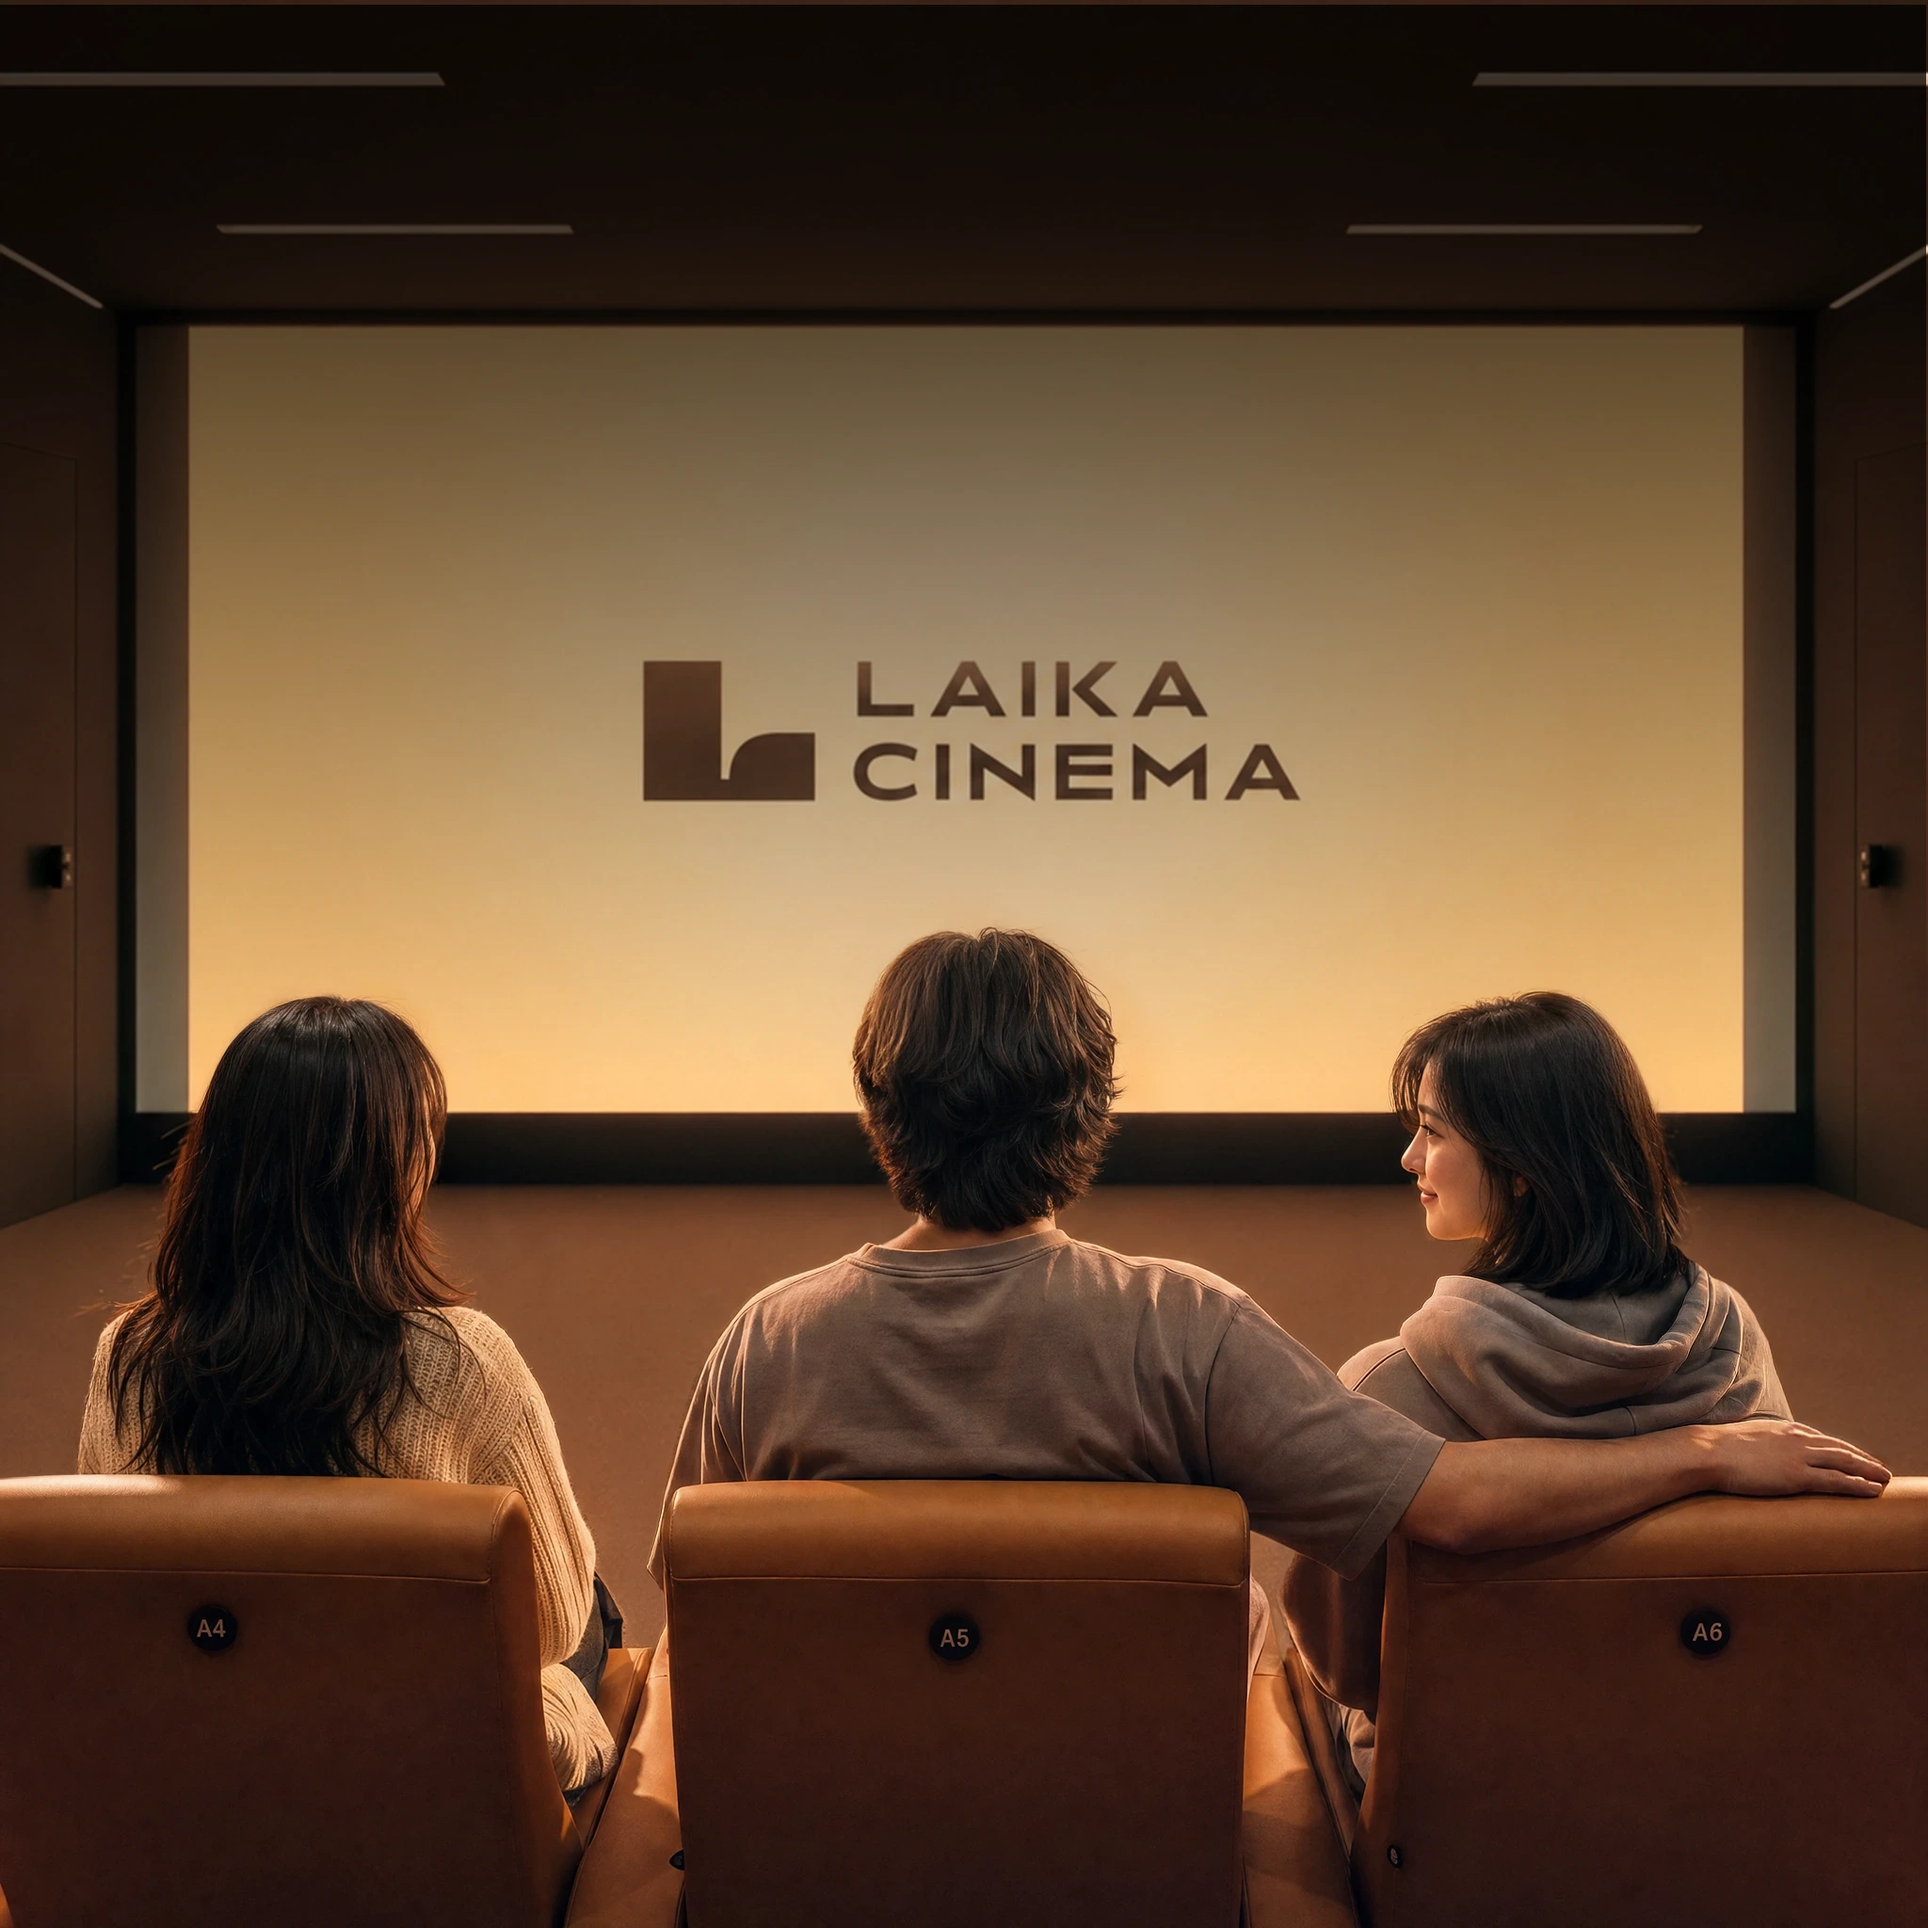
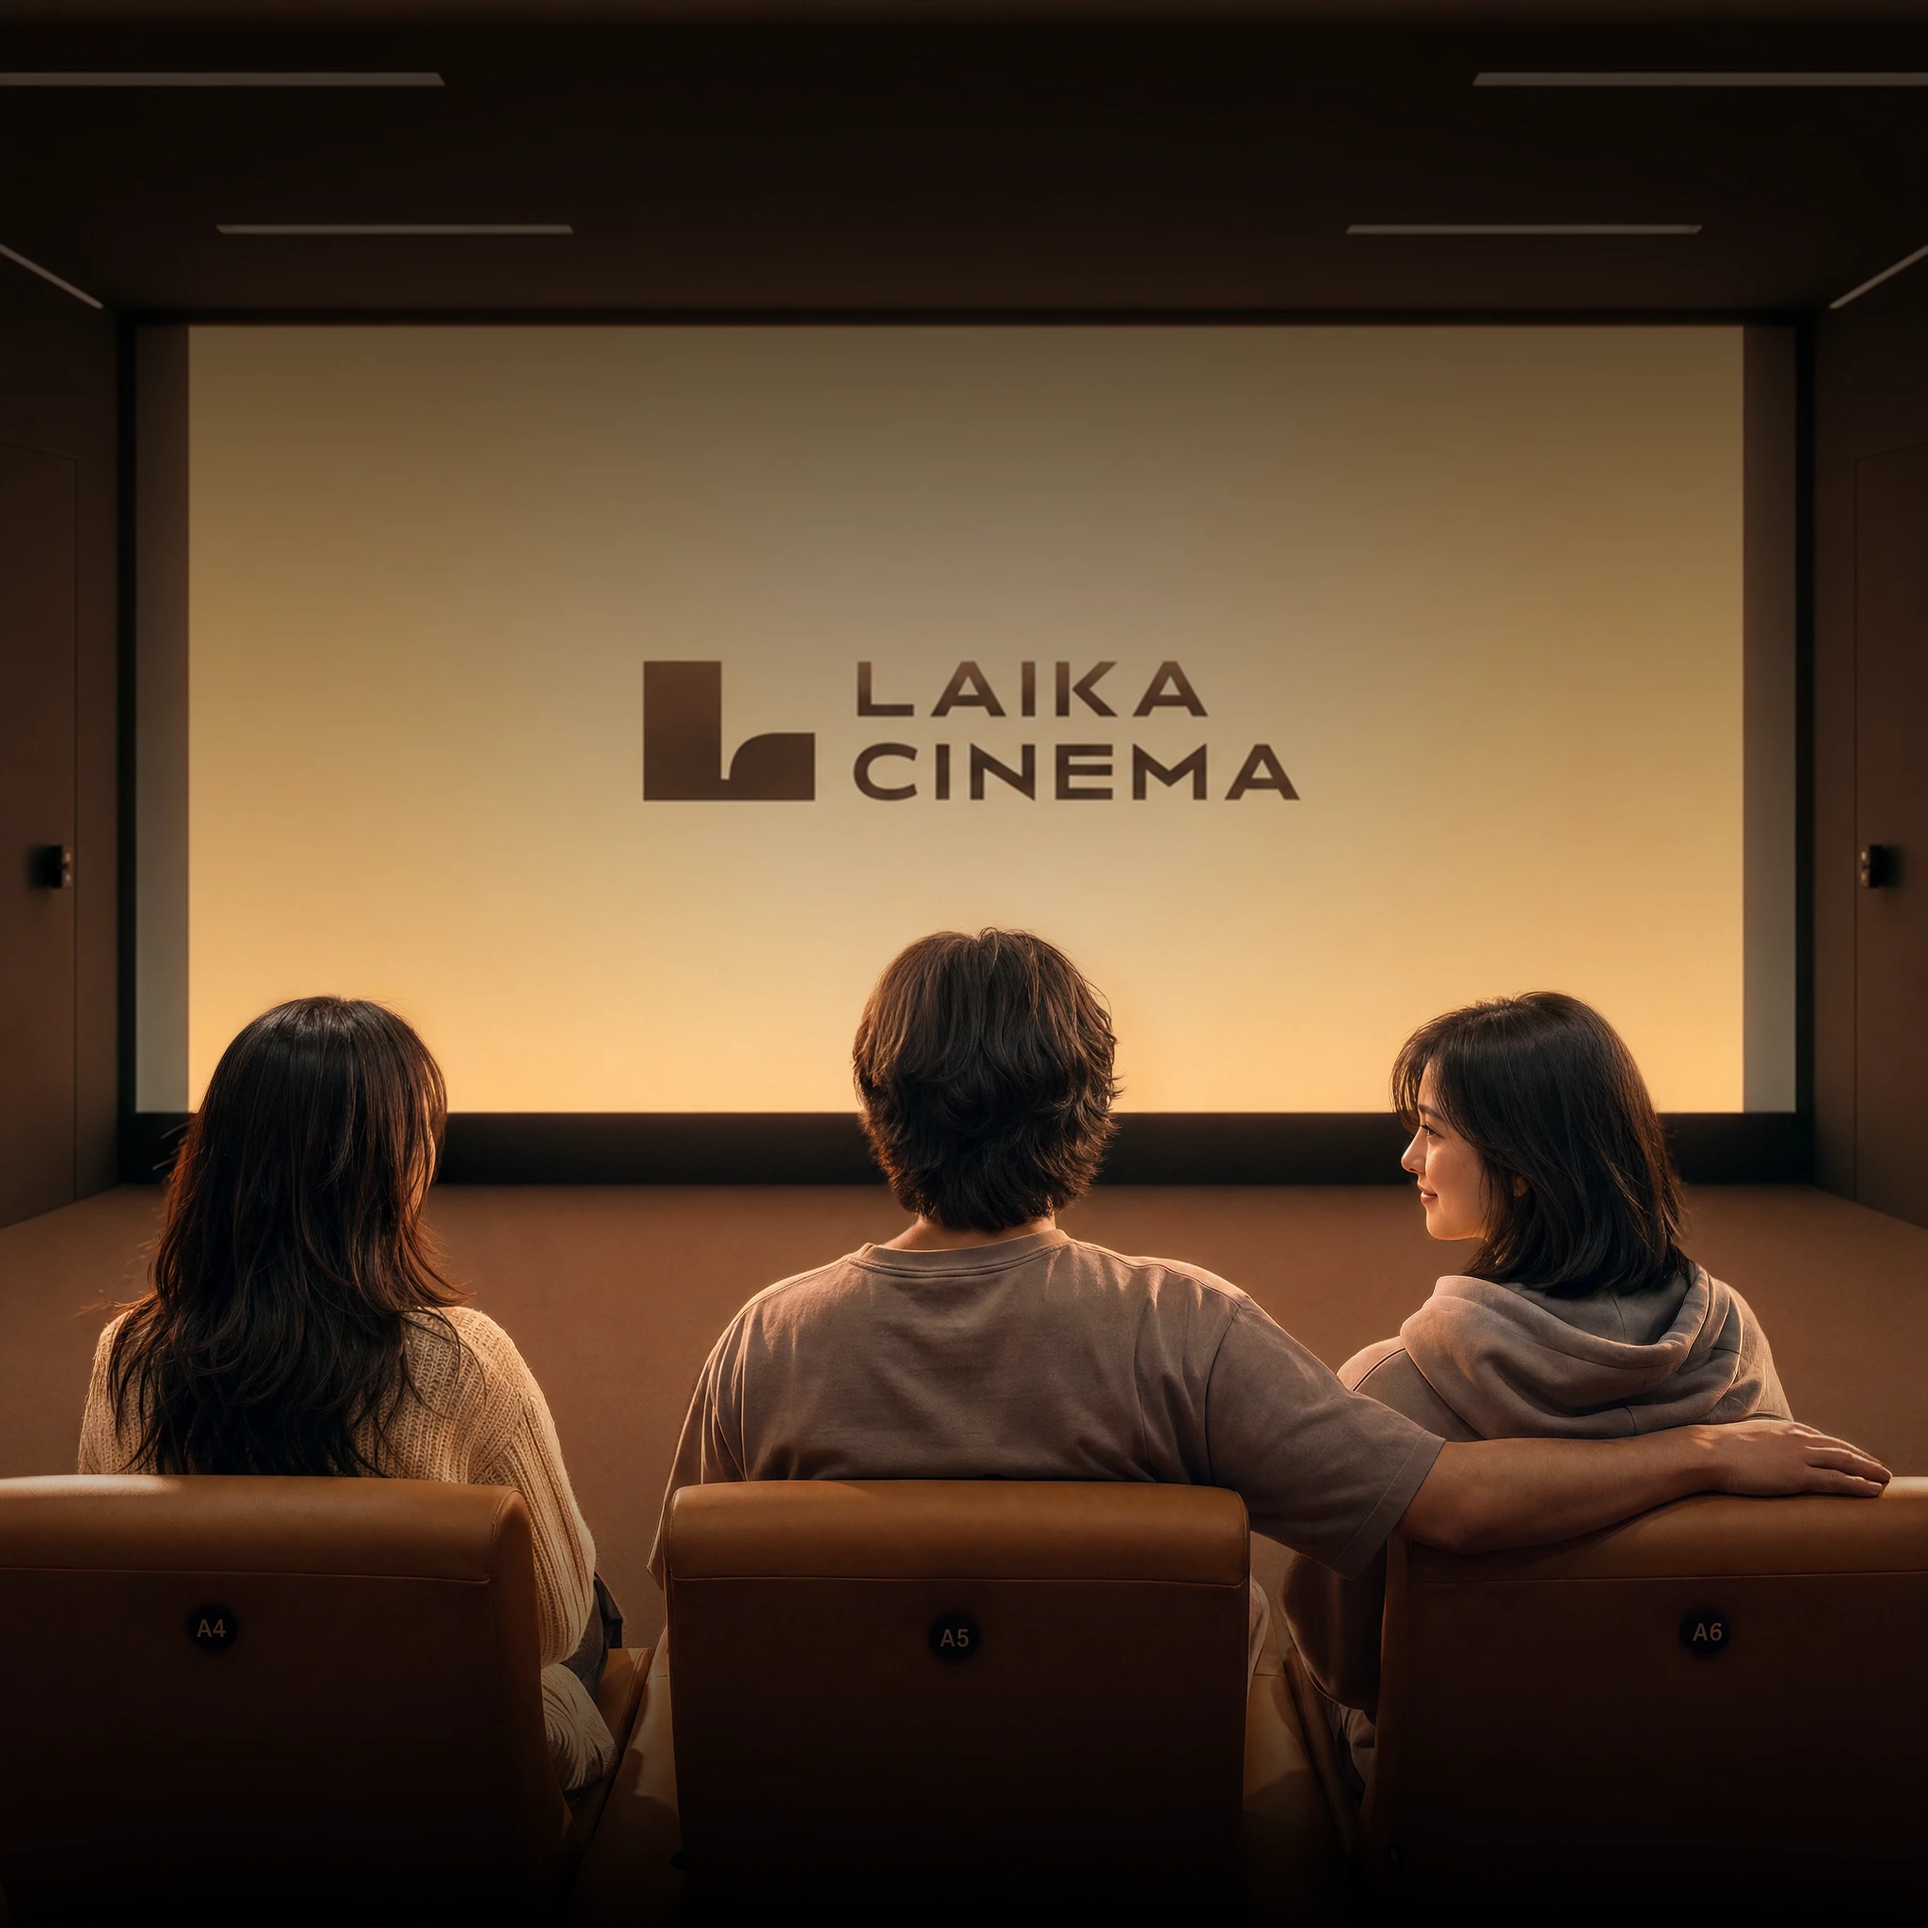
상페 이미지 1:1 실측 정합 — 피그마 합성 익스포트 기준 재작업
- 그라데이션: 프레임 익스포트에서 행별 알파 실측(중앙값) 후 원본에 굽기
- 몬스터: 피그마에 실린 원본(1086×1449)이 로컬본과 다른 생성본임을 확인, 피그마 원본으로 교체
- max-width:100% 가 블리드(895/903px)를 누르던 것 해제
- 검증: 브라우저 vs 피그마 익스포트 픽셀 대조 (사람구간 잔차 4~6, 콘텐츠 일치)

Changed region(s): [[0.0, 0.7188, 1.0, 1.0]]

diff --git a/basic.html b/basic.html
@@ -116,7 +116,7 @@ src="https://www.facebook.com/tr?id=771478541518631&ev=PageView&noscript=1"></no
 <link rel="stylesheet" href="css/style.css?v=bcdee7d5">
 <link rel="stylesheet" href="css/mobile.css?v=15ca757b">
 <link rel="stylesheet" href="css/sub.css?v=313eb78b">
-<link rel="stylesheet" href="css/basic.css?v=03bb2229">
+<link rel="stylesheet" href="css/basic.css?v=eb410ce0">
 <script type="application/ld+json">
 {
   "@context": "https://schema.org",
@@ -199,12 +199,12 @@ src="https://www.facebook.com/tr?id=771478541518631&ev=PageView&noscript=1"></no
 
 <!-- ══ 상페1 (3684:17907) — tools/basic_s1.py 가 만든다. 손대지 말 것 ══ -->
 <section class="bs-s1 bs-board" aria-labelledby="bs-title">
-  <img class="s1-hero" src="assets/img/basic/hero-cinema.webp?v=375fb5cb" width="1722" height="1722" fetchpriority="high" alt="라이카 시네마 극장에서 수강생들이 자기 영상 상영을 보고 있다">
+  <img class="s1-hero" src="assets/img/basic/hero-cinema.webp?v=ff7ed41c" width="1722" height="1722" fetchpriority="high" alt="라이카 시네마 극장에서 수강생들이 자기 영상 상영을 보고 있다">
   <p class="s1-copy tb bs-rv">취미로 시작했는데<br>한 달 뒤 <b>극장</b>에서<br>내 영상이 상영됩니다.</p>
   <img class="s1-lock bs-rv" src="assets/img/basic/ico/lock-hero.svg?v=0a68631d" width="515" height="102" alt="FVA ACADEMY × 21STUDIOS">
   <h1 class="s1-basic bs-rv" id="bs-title"><span class="sr-only">BASIC CLASS</span><svg class="bs-tl bs-b-basicclass" aria-hidden="true" focusable="false" xmlns="http://www.w3.org/2000/svg" viewBox="0 0 4009.0 853.0"><g transform="scale(1.00000 1) translate(-45.0 836.0) scale(1 -1)" fill="currentColor"><path d="M45 -1H195L187 83H196C205 25 249 -1 305 -1C377 -1 444 56 444 157V301C444 385 385 434 323 432V436C384 439 434 487 434 575V661C434 753 374 821 267 821H45ZM257 128C241 127 206 132 190 138V362H239C276 362 299 345 299 305V188C299 154 289 129 257 128ZM236 494H190V692H239C268 692 289 667 289 641V546C289 516 265 494 236 494Z" transform="translate(0.0 -0.0)"/><path d="M18 -1H167L188 205H283L304 -1H453L330 821H141ZM201 334 229 606H242L270 334Z" transform="translate(427.0 -0.0)"/><path d="M227 -17C349 -17 417 67 417 195C417 326 367 380 321 432L252 509C229 535 185 576 181 648C179 683 198 706 228 706C257 706 273 682 274 650C275 627 275 597 274 574H416C417 596 417 625 416 647C411 760 353 836 227 836C101 836 37 760 37 646C37 552 73 490 111 448L174 379C238 308 272 271 272 177C272 142 257 118 227 118C196 118 186 144 180 180C177 199 179 245 184 274H42C37 233 32 200 40 140C53 43 113 -17 227 -17Z" transform="translate(843.0 -0.0)"/><path d="M50 -1H198V821H50Z" transform="translate(1240.0 -0.0)"/><path d="M248 -17C374 -17 448 62 448 171V305H303V168C303 143 286 116 247 116C210 116 188 143 188 168V650C188 676 210 703 247 703C286 703 303 676 303 650V519H448V647C448 759 374 836 248 836C121 836 43 759 43 647V171C43 62 121 -17 248 -17Z" transform="translate(1433.0 -0.0)"/><path d="M248 -17C374 -17 448 62 448 171V305H303V168C303 143 286 116 247 116C210 116 188 143 188 168V650C188 676 210 703 247 703C286 703 303 676 303 650V519H448V647C448 759 374 836 248 836C121 836 43 759 43 647V171C43 62 121 -17 248 -17Z" transform="translate(2014.0 -0.0)"/><path d="M45 -1H414V128H192V821H45Z" transform="translate(2450.0 -0.0)"/><path d="M18 -1H167L188 205H283L304 -1H453L330 821H141ZM201 334 229 606H242L270 334Z" transform="translate(2824.0 -0.0)"/><path d="M227 -17C349 -17 417 67 417 195C417 326 367 380 321 432L252 509C229 535 185 576 181 648C179 683 198 706 228 706C257 706 273 682 274 650C275 627 275 597 274 574H416C417 596 417 625 416 647C411 760 353 836 227 836C101 836 37 760 37 646C37 552 73 490 111 448L174 379C238 308 272 271 272 177C272 142 257 118 227 118C196 118 186 144 180 180C177 199 179 245 184 274H42C37 233 32 200 40 140C53 43 113 -17 227 -17Z" transform="translate(3240.0 -0.0)"/><path d="M227 -17C349 -17 417 67 417 195C417 326 367 380 321 432L252 509C229 535 185 576 181 648C179 683 198 706 228 706C257 706 273 682 274 650C275 627 275 597 274 574H416C417 596 417 625 416 647C411 760 353 836 227 836C101 836 37 760 37 646C37 552 73 490 111 448L174 379C238 308 272 271 272 177C272 142 257 118 227 118C196 118 186 144 180 180C177 199 179 245 184 274H42C37 233 32 200 40 140C53 43 113 -17 227 -17Z" transform="translate(3637.0 -0.0)"/></g></svg></h1>
   <p class="s1-sub tb bs-rv">피바아카데미 × 21스튜디오 베이직 클래스</p>
-  <img class="s1-monster" src="assets/img/basic/theater-monster.webp?v=9683bd1b" width="1790" height="2222" loading="lazy" alt="3D 안경을 쓴 피바 캐릭터가 극장 좌석에서 팝콘을 들고 있다">
+  <img class="s1-monster" src="assets/img/basic/theater-monster.webp?v=55265b94" width="1086" height="1349" loading="lazy" alt="3D 안경을 쓴 피바 캐릭터가 극장 좌석에서 팝콘을 들고 있다">
   <p class="s1-oddlead bs-rv">와서 놀다 보니 내 영상 하나가 완성돼 있는</p>
   <h2 class="s1-odd bs-rv"><span class="sr-only">수상한 아카데미가 있다?</span><svg class="bs-tl bs-b-odd" aria-hidden="true" focusable="false" xmlns="http://www.w3.org/2000/svg" viewBox="0 0 6398.0 931.0"><g transform="scale(1.00000 1) translate(-20.0 879.0) scale(1 -1)" fill="currentColor"><path d="M26 486 123 390C191 442 244 498 282 559C315 578 372 496 425 399L543 483C489 567 439 631 393 646C362 656 342 644 326 625L318 631C341 688 353 749 353 816V862H213V816C213 674 141 569 26 486ZM212 -42H348V234H540V359H20V234H212Z" transform="translate(0.0 -0.0)"/><path d="M-15 414 98 337C136 388 165 441 187 494C212 488 218 438 222 342L350 354C345 494 331 559 292 582C266 597 239 590 217 558L212 565C236 647 244 724 244 786V849H109V790C109 666 79 537 -15 414ZM202 -47H358C454 -47 520 30 520 131C520 232 454 310 358 310H202C106 310 41 232 41 131C41 30 106 -47 202 -47ZM337 76H223C199 76 178 100 178 131C178 162 199 186 223 186H337C361 186 383 162 383 131C383 100 361 76 337 76ZM365 335H499V522H561V649H499V862H365Z" transform="translate(560.0 -0.0)"/><path d="M365 183H499V454H561V580H499V862H365ZM52 -43H510V86H188V240H52ZM177 276C268 276 330 326 330 422V506C330 602 268 652 177 652C86 652 24 602 24 506V422C24 326 86 276 177 276ZM177 391C156 391 153 410 153 430V500C153 520 156 539 177 539C197 539 200 520 200 500V430C200 410 197 391 177 391ZM12 669H341V792H228V799C257 803 268 816 268 835V879H123C123 851 132 792 86 792H12Z" transform="translate(1120.0 -0.0)"/><path d="M175 -8C266 -8 326 47 326 143V706C326 802 266 857 175 857C84 857 24 802 24 706V143C24 47 84 -8 175 -8ZM175 118C159 118 155 132 155 182V667C155 717 159 730 175 730C192 730 196 717 196 667V182C196 132 192 118 175 118ZM359 -41H494V400H557V526H494V862H359Z" transform="translate(1880.0 -0.0)"/><path d="M9 59 127 -19C267 199 312 462 312 702V850H24V724H178V678C178 639 177 599 173 560C116 542 58 525 0 514L36 379C75 389 114 397 155 422C131 298 86 176 9 59ZM355 -41H489V400H552V526H489V862H355Z" transform="translate(2440.0 -0.0)"/><path d="M272 -26H390V862H272V510H203V397H272V176C246 154 224 142 160 142V723H241V849H27V12H124C210 12 251 48 260 106H272ZM414 -41H533V862H414Z" transform="translate(3000.0 -0.0)"/><path d="M38 7H340V748C340 799 316 850 260 852C222 853 190 840 172 766L160 769L168 849H38ZM168 131V701C172 714 180 720 189 719C206 718 209 707 209 692V131ZM384 -42H518V862H384Z" transform="translate(3560.0 -0.0)"/><path d="M2 69 120 -9C260 209 305 472 305 712V850H22V724H171V688C171 478 131 266 2 69ZM355 -41H489V400H552V526H489V862H355Z" transform="translate(4120.0 -0.0)"/><path d="M455 -52 578 3C544 77 517 154 471 162C452 165 434 151 428 134L422 136C445 194 456 251 456 295V318H323V300C323 240 314 181 282 127C267 147 252 168 238 192C246 229 249 265 249 295V318H116V300C116 203 95 122 2 48L91 -41C131 -15 161 18 184 54C210 18 243 -17 279 -51C323 -21 359 20 386 64C410 50 425 13 455 -52ZM178 359C269 359 334 414 334 510V718C334 814 269 869 178 869C87 869 22 814 22 718V510C22 414 87 359 178 359ZM178 480C156 480 152 499 152 538V689C152 729 156 748 178 748C201 748 205 729 205 689V538C205 499 201 480 178 480ZM383 349H517V862H383Z" transform="translate(4880.0 -0.0)"/><path d="M360 -41H494V400H557V526H494V862H360V171C334 147 291 136 247 136H180V725H316V850H43V7H203C291 7 340 42 349 101H360Z" transform="translate(5440.0 -0.0)"/><path d="M114 294V197H253V295C253 358 277 374 322 429C371 489 418 557 418 666C418 771 374 867 213 867C59 867 2 759 27 617H163C147 703 171 739 213 739C272 739 278 686 278 646C278 584 237 532 191 481C120 402 114 364 114 294ZM112 -34H260V134H112Z" transform="translate(6000.0 -0.0)"/></g></svg></h2>
   <img class="s1-blur" src="assets/img/basic/field-blur.webp?v=6428b973" width="1720" height="1046" loading="lazy" alt="스태프들이 촬영 장비를 들고 야외 현장을 준비하고 있다">
@@ -548,7 +548,7 @@ src="https://www.facebook.com/tr?id=771478541518631&ev=PageView&noscript=1"></no
 <!-- ══ 상페3 마무리 (3684:17906 이하) ══ -->
 <section class="bs-s3 bs-s3b bs-board" aria-labelledby="bs-h-fin">
   <p class="bs-finlead tb bs-rv" id="bs-h-fin">불이 꺼지고<br>스크린에 <b>내 이름</b>이 올라갑니다.</p>
-  <img class="bs-finpic" src="assets/img/basic/laika-hall.webp?v=c902f211" width="1806" height="2018" loading="lazy" alt="라이카 시네마 2관 상영관 전경">
+  <img class="bs-finpic" src="assets/img/basic/laika-hall.webp?v=b4304fa9" width="1806" height="2018" loading="lazy" alt="라이카 시네마 2관 상영관 전경">
   <p class="bs-finh tb bs-rv">한 달이면 됩니다.<br>영상, 더 이상 혼자 하지 마세요!</p>
   <p class="bs-insta bs-rv">피바아카데미 공식 인스타그램 : <a href="https://www.instagram.com/fvaacademy/" target="_blank" rel="noopener">@fvaacademy</a></p>
 </section>

diff --git a/css/basic.css b/css/basic.css
@@ -56,7 +56,7 @@
 .bs .bs-board{ position:relative; width:var(--u); margin-inline:auto;
   background:#000; overflow:hidden }
 .bs .bs-board > *{ position:absolute; margin:0 }
-.bs .bs-board img{ display:block; width:100%; height:auto }
+.bs .bs-board img{ display:block; width:100%; height:auto; max-width:none } /* style.css 의 max-width:100% 가 피그마 블리드(895/903px)를 860으로 눌러버린다 */
 /* 피그마 글상자는 대문자 윗선~밑선으로 잘라 놓은 것이 많다. 같게 잘라야 자리가 맞는다. */
 .bs .bs-board .tb{ text-box-trim:trim-both; text-box-edge:cap alphabetic;
   text-box:trim-both cap alphabetic }

diff --git a/offline.html b/offline.html
@@ -116,7 +116,7 @@ src="https://www.facebook.com/tr?id=771478541518631&ev=PageView&noscript=1"></no
 <link rel="stylesheet" href="css/style.css?v=bcdee7d5">
 <link rel="stylesheet" href="css/mobile.css?v=15ca757b">
 <link rel="stylesheet" href="css/sub.css?v=313eb78b">
-<link rel="stylesheet" href="css/basic.css?v=03bb2229">
+<link rel="stylesheet" href="css/basic.css?v=eb410ce0">
 <link rel="stylesheet" href="css/offline.css?v=3bddbe02">
 <link rel="stylesheet" href="css/offline-plan.css?v=9ab719a4">
 <link rel="stylesheet" href="css/offline-blocks.css?v=229e5781">
